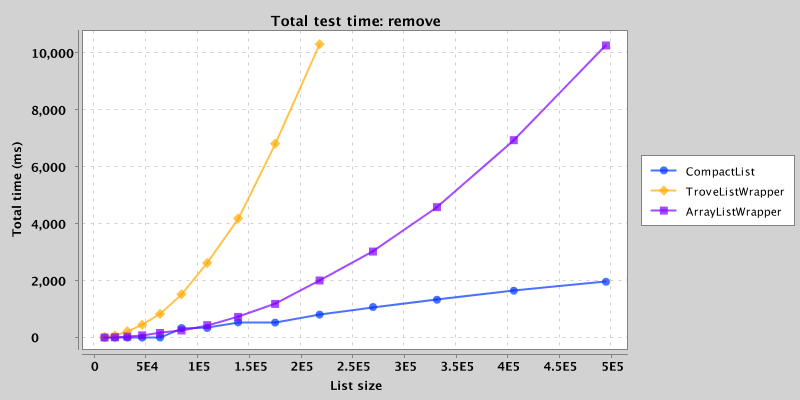
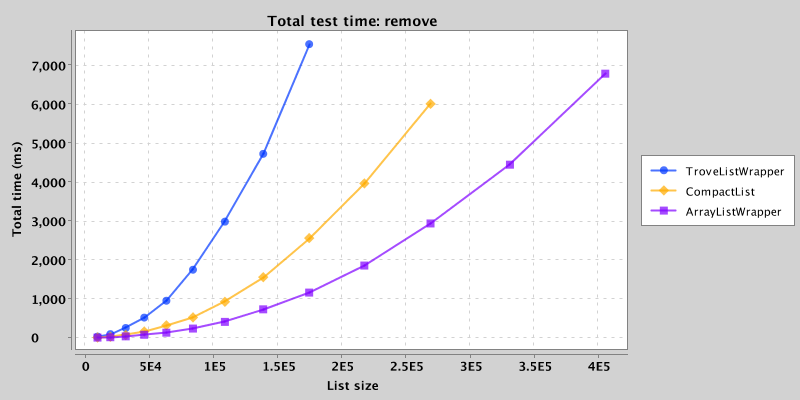
Performance tuning for when to split and compact

diff --git a/src/test/java/net/kothar/compactlist/CompactListBenchmark.java b/src/test/java/net/kothar/compactlist/CompactListBenchmark.java
@@ -38,7 +38,7 @@ public class CompactListBenchmark {
 
 	public static void main(String[] args) throws IOException {
 
-		int maxListSize = 19;
+		int maxListSize = 21;
 		if (args.length > 0) {
 			maxListSize = Integer.parseInt(args[0]);
 		}
@@ -47,10 +47,11 @@ public class CompactListBenchmark {
 		System.out.println("Test\t\tCount\t\tClass\t\t\tElapsed");
 
 		Map<String, Test> tests = new LinkedHashMap<>();
-		tests.put("set", setRandom);
-		tests.put("remove", removeRandom);
 		tests.put("append", appendSequential);
+		tests.put("appendRandom", appendRandom);
 		tests.put("insert", insertSequential);
+		tests.put("set", setSeq);
+		tests.put("remove", removeRandom);
 
 		for (Entry<String, Test> testEntry : tests.entrySet()) {
 
@@ -81,7 +82,7 @@ public class CompactListBenchmark {
 					classData.put(size, elapsed);
 					classMemory.put(size, test.memoryUsage());
 
-					if (elapsed > 10_000) {
+					if (elapsed > 5_000) {
 						break;
 					}
 				}
@@ -189,6 +190,48 @@ public class CompactListBenchmark {
 		}
 	};
 
+	private static Test appendRandom = new Test() {
+
+		private LongList					list;
+		private int							size;
+		private Random						r;
+		private Class<? extends LongList>	impl;
+
+		@Override
+		public void init(Class<? extends LongList> impl, int size) {
+			this.impl = impl;
+			this.size = size;
+		}
+
+		@Override
+		public void run() {
+			for (int i = 0; i < size; i++) {
+				list.addLong(r.nextInt(size));
+			}
+		}
+
+		@Override
+		public void reset() {
+			try {
+				r = new Random(size);
+				list = impl.newInstance();
+			} catch (Exception e) {
+				throw new RuntimeException(e);
+			}
+		}
+
+		@Override
+		public void clear() {
+			list = null;
+			r = null;
+		}
+
+		@Override
+		public long memoryUsage() {
+			return sizeof(list);
+		}
+	};
+
 	private static Test insertSequential = new Test() {
 		private int							size;
 		private Random						r;
@@ -256,7 +299,7 @@ public class CompactListBenchmark {
 				r = new Random(size);
 				list = impl.newInstance();
 				for (long i = 0; i < size; i++) {
-					list.addLong(i);
+					list.addLong(r.nextInt(size));
 				}
 			} catch (Exception e) {
 				throw new RuntimeException(e);
@@ -275,7 +318,7 @@ public class CompactListBenchmark {
 		}
 	};
 
-	private static Test setRandom = new Test() {
+	private static Test setSeq = new Test() {
 		private int							size;
 		private Random						r;
 		private LongList					list;
@@ -301,6 +344,50 @@ public class CompactListBenchmark {
 				list = impl.newInstance();
 				for (long i = 0; i < size; i++) {
 					list.addLong(i);
+				}
+			} catch (Exception e) {
+				throw new RuntimeException(e);
+			}
+		}
+
+		@Override
+		public void clear() {
+			list = null;
+			r = null;
+		}
+
+		@Override
+		public long memoryUsage() {
+			return sizeof(list);
+		}
+	};
+
+	private static Test setRand = new Test() {
+		private int							size;
+		private Random						r;
+		private LongList					list;
+		private Class<? extends LongList>	impl;
+
+		@Override
+		public void run() {
+			for (long i = 0; i < size; i++) {
+				list.setLong(r.nextInt(list.size()), i);
+			}
+		}
+
+		@Override
+		public void init(Class<? extends LongList> impl, int size) {
+			this.impl = impl;
+			this.size = size;
+		}
+
+		@Override
+		public void reset() {
+			try {
+				r = new Random(size);
+				list = impl.newInstance();
+				for (long i = 0; i < size; i++) {
+					list.addLong(r.nextInt(size));
 				}
 			} catch (Exception e) {
 				throw new RuntimeException(e);

diff --git a/src/main/java/net/kothar/compactlist/internal/Node.java b/src/main/java/net/kothar/compactlist/internal/Node.java
@@ -28,8 +28,8 @@ public class Node implements Iterable<Long>, LongList, Serializable {
 	private static final long serialVersionUID = 3105932349913959938L;
 
 	private static final int	READ_COMPACTION_DELAY	= 1 << 10;
-	private static final int	WRITE_COMPACTION_DELAY	= 1 << 13;
 	private static final int	TARGET_LEAF_SIZE		= 1 << 16;
+	private static final int	MAX_LEAF_SIZE			= 1 << 20;
 
 	protected int				size;
 	protected StorageStrategy	elements;
@@ -115,8 +115,8 @@ public class Node implements Iterable<Long>, LongList, Serializable {
 
 		// Split
 		if (isLeaf() && size >= TARGET_LEAF_SIZE) {
-			if (index == size && elements.capacity() > size) {
-				// Don't split if we have more capacity to append
+			if (index == size && size < MAX_LEAF_SIZE) {
+				// Don't split if we are appending
 			} else {
 				split(index);
 			}
@@ -127,7 +127,7 @@ public class Node implements Iterable<Long>, LongList, Serializable {
 			lastWrite = ++operation;
 
 			// Replace with non-compact representation if out of range
-			if (!elements.inRange(index, element, false)) {
+			if (!elements.inRange(index, element, index < size)) {
 				LongArrayStore newElements = new LongArrayStore(size + 1);
 				newElements.copy(elements, 0, 0, index);
 				newElements.set(index, element);
@@ -138,10 +138,6 @@ public class Node implements Iterable<Long>, LongList, Serializable {
 				elements.add(index, element);
 			}
 			size++;
-
-			if (dirty && lastWrite - lastCompaction > WRITE_COMPACTION_DELAY) {
-				compact();
-			}
 		} else {
 			addChild(index, element);
 		}
@@ -164,7 +160,20 @@ public class Node implements Iterable<Long>, LongList, Serializable {
 		assert index < size && index >= 0;
 
 		// If we can't safely remove an element, decompact the store
-		if (isLeaf() && !elements.isPositionIndependent()) {
+		if (isLeaf() && index < size - 1 && !elements.isPositionIndependent()) {
+			if (size > TARGET_LEAF_SIZE) {
+				if (index > TARGET_LEAF_SIZE && size - index > TARGET_LEAF_SIZE) {
+					// Both sides will be large enough
+					split(index + 1);
+					size--;
+					return left.removeLong(index);
+				} else {
+					// Don't make segments too small
+					split(size / 2);
+					return removeLong(index);
+				}
+			}
+
 			elements = new LongArrayStore(elements);
 			dirty = true;
 		}

diff --git a/README.md b/README.md
@@ -25,9 +25,10 @@ This project is published to Maven Central via Sonatype OSSRH
 
 ## Performance
 
-Performance of `CompactList` tends to be worse than `ArrayList` for small lists, but gains an advantage as list
-size increases. This is mainly due to the tree structure which limits the amount of memory that needs to be copied when
-elements are inserted or removed, or the allocated backing array is grown during an append.
+Performance of `CompactList` tends to be worse than `ArrayList` for small lists, but gains an advantage 
+for random inserts as list size increases. This is mainly due to the tree structure which limits the
+amount of memory that needs to be copied when elements are inserted or removed, or the allocated backing 
+array is grown during an append.
 
 The implementation currently splits segments at 2^16 elements, which is where performance gains for insertion start to appear.
 In the charts below, `CompactList` beats `ArrayList` when inserting ~2^17 or more elements.
